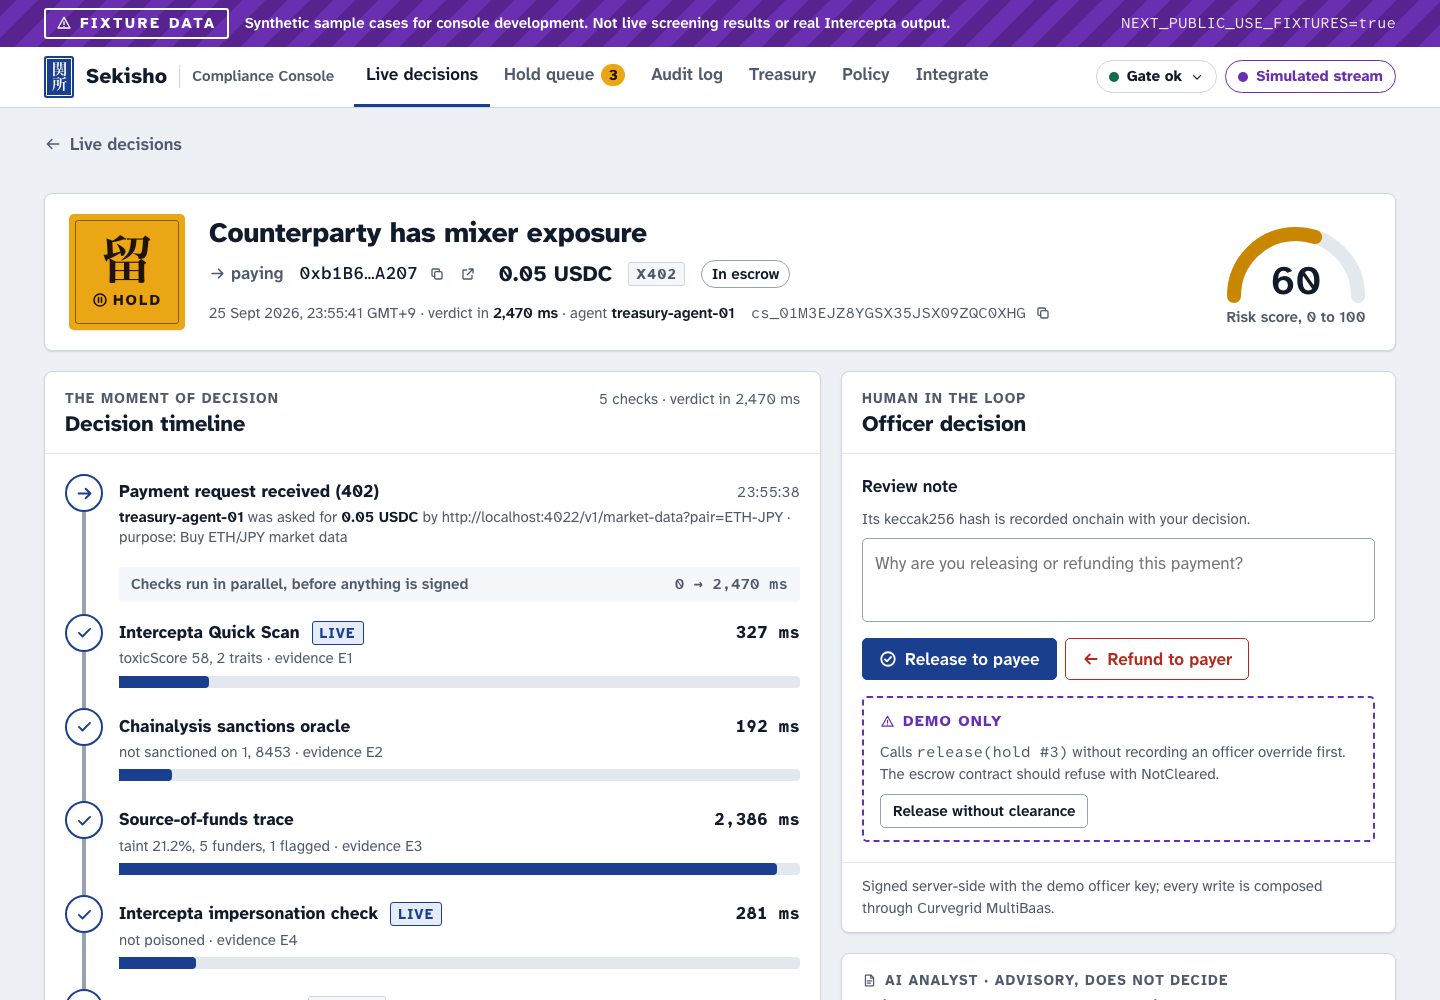
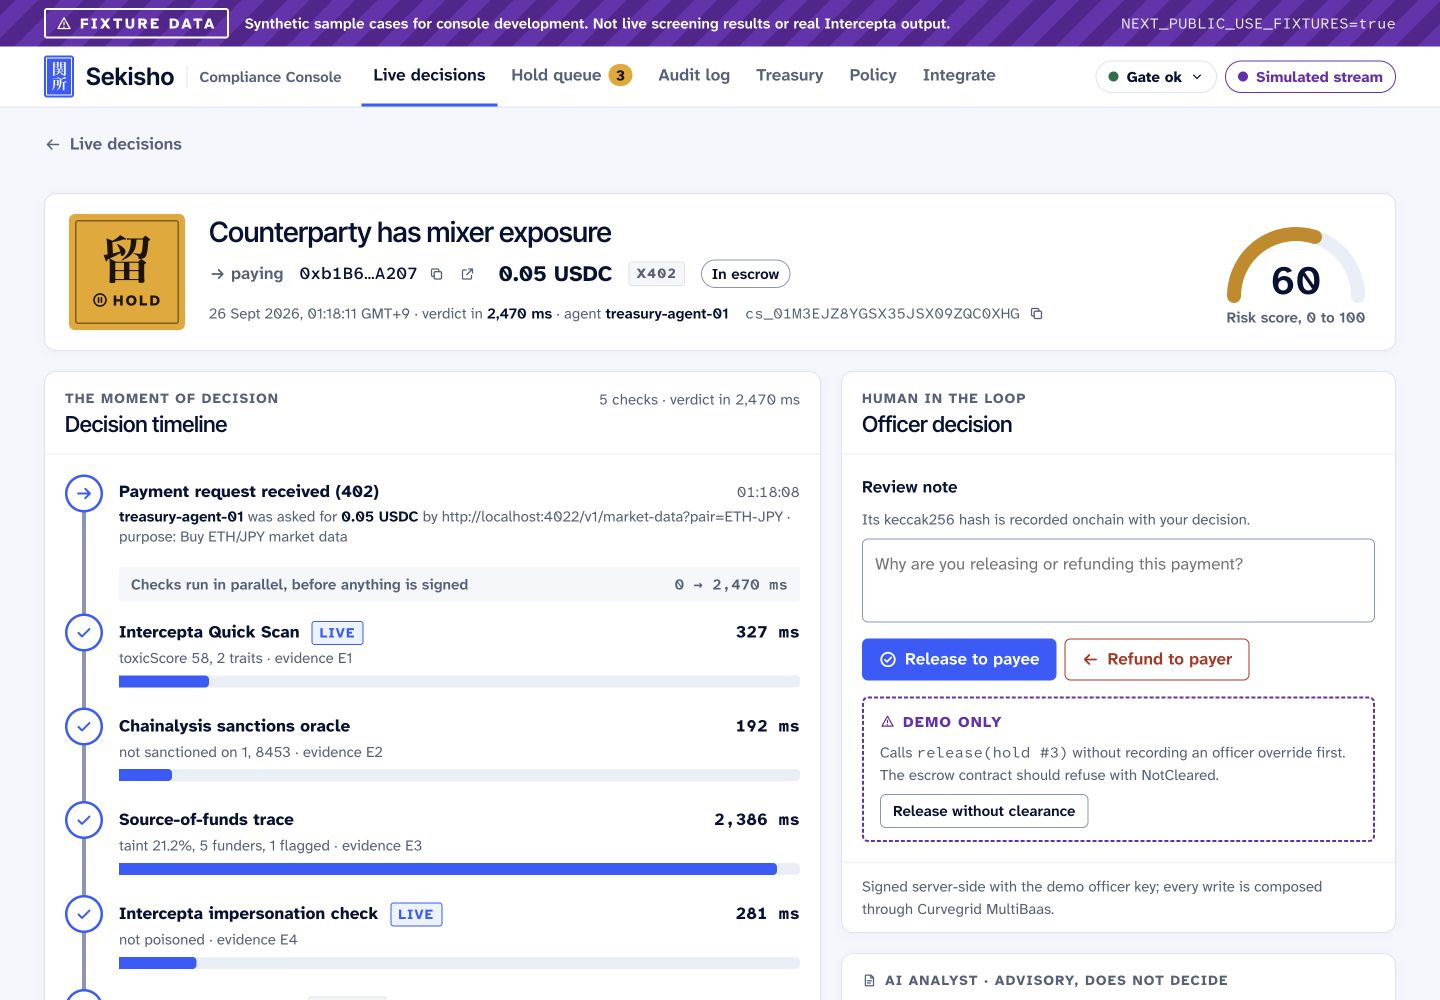
console: align shared theme with Sekisho website

diff --git a/dashboard/app/tokens.css b/dashboard/app/tokens.css
@@ -3,8 +3,8 @@
  * used by the console is defined here. Branding is a token swap: change the values in the
  * "Palette" and "Type" blocks (or map the semantic tokens to brand tokens) and nothing else.
  *
- * Direction: an inspection office for agent payments. Prussian blue (藍, the Edo-era
- * "Berlin blue" of Hiroshige's prints) carries structure; the three verdict colours are the
+ * Direction: an inspection office for agent payments. Midnight and signal blue
+ * connect the console to the public website; the three verdict colours are the
  * only other saturated hues and are reserved for verdicts (always with an icon and a label).
  * Seals (判) borrow the checkpoint's stamp. Type is Atkinson Hyperlegible, designed for
  * legibility at distance: this console runs on a projector.
@@ -12,16 +12,16 @@
 
 :root {
   /* ---------- Palette (raw values: swap these for branding) ---------- */
-  --palette-paper: #edf0f4; /* page background, cool paper */
+  --palette-paper: #f4f7fc; /* page background, cool paper */
   --palette-white: #ffffff;
-  --palette-ink: #101b2b; /* sumi ink */
-  --palette-slate: #4f5b6c; /* secondary text, 7:1 on white */
-  --palette-mist: #cfd6e0;
-  --palette-mist-strong: #97a3b3;
-  --palette-mist-faint: #e3e8ee;
-  --palette-ai: #1b3f8f; /* Prussian blue, 藍 */
-  --palette-ai-deep: #102a66;
-  --palette-ai-wash: #e5ebf7;
+  --palette-ink: #061234; /* sumi ink */
+  --palette-slate: #536079; /* secondary text */
+  --palette-mist: #dce3f0;
+  --palette-mist-strong: #8897b2;
+  --palette-mist-faint: #e9eef7;
+  --palette-ai: #315bff; /* signal blue: actions */
+  --palette-ai-deep: #2445d8;
+  --palette-ai-wash: #eaf2ff;
   --palette-rokusho: #0f6e47; /* verdigris green: ALLOW */
   --palette-rokusho-wash: #e1f2e9;
   --palette-yamabuki: #8a5700; /* dark amber text: HOLD */
@@ -86,6 +86,8 @@
   --inverse-error: #ffb4a6;
 
   /* ---------- Type ---------- */
+  --font-heading: "Inter Tight", system-ui, sans-serif;
+  --weight-heading: 550;
   --font-sans: "Atkinson Hyperlegible Next Variable", "Atkinson Hyperlegible Next", system-ui,
     -apple-system, "Segoe UI", sans-serif;
   --font-mono: "Atkinson Hyperlegible Mono Variable", "Atkinson Hyperlegible Mono", ui-monospace,
@@ -129,15 +131,15 @@
 
   /* ---------- Shape ---------- */
   --radius-xs: 3px;
-  --radius-sm: 5px;
-  --radius-md: 8px;
-  --radius-lg: 12px;
+  --radius-sm: 6px;
+  --radius-md: 12px;
+  --radius-lg: 16px;
   --radius-pill: 999px;
   --border-width: 1px;
   --border-width-strong: 2px;
 
   /* ---------- Elevation ---------- */
-  --shadow-card: 0 1px 0 rgba(16, 27, 43, 0.04), 0 1px 3px rgba(16, 27, 43, 0.07);
+  --shadow-card: 0 2px 8px rgba(6, 18, 52, 0.035);
   --shadow-raised: 0 6px 20px rgba(16, 27, 43, 0.12), 0 1px 3px rgba(16, 27, 43, 0.08);
   --shadow-modal: 0 24px 64px rgba(16, 27, 43, 0.28);
 

diff --git a/dashboard/app/globals.css b/dashboard/app/globals.css
@@ -1,3 +1,5 @@
+@font-face { font-family: "Inter Tight"; src: url("/fonts/inter-tight-latin-wght-normal.woff2") format("woff2"); font-weight: 100 900; font-display: swap; }
+
 /* Base element styles. Values come from tokens.css only. */
 
 *,
@@ -56,7 +58,8 @@ h1,
 h2,
 h3,
 h4 {
-  font-weight: var(--weight-bold);
+  font-family: var(--font-heading);
+  font-weight: var(--weight-heading);
   line-height: var(--leading-tight);
   letter-spacing: -0.01em;
 }

diff --git a/dashboard/components/shell/shell.module.css b/dashboard/components/shell/shell.module.css
@@ -92,8 +92,9 @@
 }
 
 .wordmark {
-  font-size: 21px;
-  font-weight: var(--weight-heavy);
+  font-family: var(--font-heading);
+  font-size: 24px;
+  font-weight: var(--weight-semibold);
   letter-spacing: 0.01em;
   line-height: 1;
 }

diff --git a/dashboard/components/case/case.module.css b/dashboard/components/case/case.module.css
@@ -79,7 +79,7 @@
 
 .headline {
   font-size: var(--text-2xl);
-  font-weight: var(--weight-heavy);
+  font-weight: var(--weight-heading);
   letter-spacing: -0.015em;
   line-height: var(--leading-tight);
 }

diff --git a/dashboard/components/live/live.module.css b/dashboard/components/live/live.module.css
@@ -184,7 +184,7 @@
 
 .headline {
   font-size: var(--text-lg);
-  font-weight: var(--weight-bold);
+  font-weight: var(--weight-heading);
   line-height: var(--leading-snug);
 }
 

diff --git a/dashboard/components/shell/page.module.css b/dashboard/components/shell/page.module.css
@@ -25,7 +25,7 @@
 
 .title {
   font-size: var(--text-2xl);
-  font-weight: var(--weight-heavy);
+  font-weight: var(--weight-heading);
   letter-spacing: -0.015em;
 }
 

diff --git a/DESIGN.md b/DESIGN.md
@@ -3,11 +3,11 @@ version: alpha
 name: Sekisho Compliance Console
 description: A checkpoint ledger for reviewing agent payments and their evidence.
 colors:
-  primary: "#1b3f8f"
-  background: "#edf0f4"
+  primary: "#315bff"
+  background: "#f4f7fc"
   surface: "#ffffff"
-  text: "#101b2b"
-  muted: "#4f5b6c"
+  text: "#061234"
+  muted: "#536079"
   allow: "#0f6e47"
   hold: "#8a5700"
   block: "#b42a1a"
@@ -17,9 +17,9 @@ typography:
   mono:
     fontFamily: '"Atkinson Hyperlegible Mono Variable", ui-monospace, monospace'
 rounded:
-  sm: "5px"
-  md: "8px"
-  lg: "12px"
+  sm: "6px"
+  md: "12px"
+  lg: "16px"
 spacing:
   page-max: "1400px"
   gutter: "24px"
@@ -59,7 +59,8 @@ Light mode is the current supported theme. Forced-color scrollbars use system co
 
 ## Typography
 
-Atkinson Hyperlegible Next carries body and heading text; its mono companion carries
+Inter Tight carries headings at weight 550. Atkinson Hyperlegible Next carries body
+text; its mono companion carries
 addresses, hashes, and code. Body text is 17px, table text 15px, page titles 28px.
 The existing Mincho stack is reserved for seal kanji. Use tabular numerals for balances.
 Full addresses remain available by copying and explorer navigation.
@@ -78,7 +79,7 @@ menus and dialogs. Loading and errors belong inside the affected data region.
 
 ## Shapes
 
-Controls use 5px corners, panels 8px or 12px according to the shared primitive. Meters
+Controls use 6px corners, panels 12px or 16px according to the shared primitive. Meters
 use rounded tracks. Reuse existing controls instead of introducing screen-local variants.
 
 ## Components
@@ -108,8 +109,9 @@ Verify report. Intercepta evidence descriptions stay verbatim.
 ## Marketing direction
 
 [docs/BRAND-DIRECTION.md](docs/BRAND-DIRECTION.md) records the user-requested Investflow
-reference and its translation to Sekisho's website and assets. It proposes a luminous
-blue checkpoint identity. It does not yet replace the runtime console tokens above.
+reference and its translation to Sekisho's website and assets. It defines a luminous
+blue checkpoint identity. Console tokens now share its midnight and signal-blue palette,
+with Inter Tight headings and quieter borders. Verdict colors and operational density remain.
 
 The public marketing surface is implemented separately in `website/`. Its canonical
 marketing tokens live in `website/styles.css` and follow the brand direction: midnight

diff --git a/docs/assets/README.md b/docs/assets/README.md
@@ -4,7 +4,8 @@ Brand direction: midnight navy, luminous signal blue, translucent checkpoint ima
 and tightly set type, distilled from the user-supplied Investflow reference. See
 [the full direction brief](../BRAND-DIRECTION.md). Keep the existing checkpoint mark
 and clear ALLOW / HOLD / BLOCK labels in the product. The pitch is **“Before the agent signs.”** The companion
-one-liner is **“The compliance checkpoint for AI agent payments.”** The console runtime has not been restyled by this package.
+one-liner is **“The compliance checkpoint for AI agent payments.”** The console now shares the midnight/signal-blue palette and Inter Tight headings;
+Atkinson remains the operational body face.
 
 | Asset | Use and provenance |
 |---|---|

diff --git a/docs/BRAND-DIRECTION.md b/docs/BRAND-DIRECTION.md
@@ -104,7 +104,8 @@ open the working local demo or integration guide.
 
 The public landing page is implemented in `website/` and published at
 [getsekisho.vercel.app](https://getsekisho.vercel.app). The operational console's
-existing routes and styling remain unchanged.
+routes retain their operational behavior. Its shared palette, borders, corners, and
+heading typography now follow this direction while keeping Atkinson body text.
 
 ## Console direction
 
